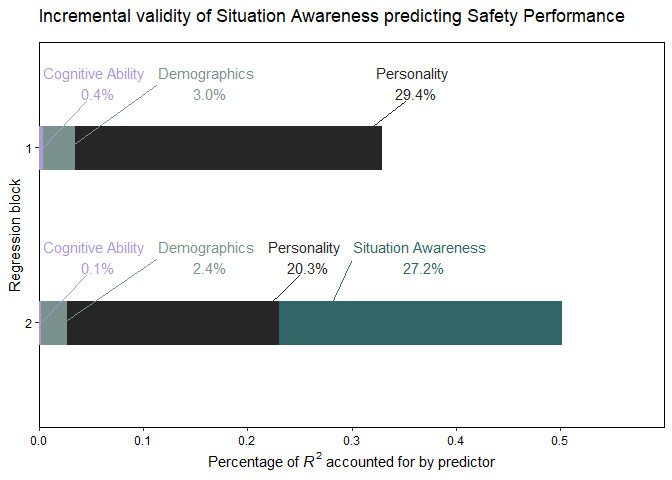
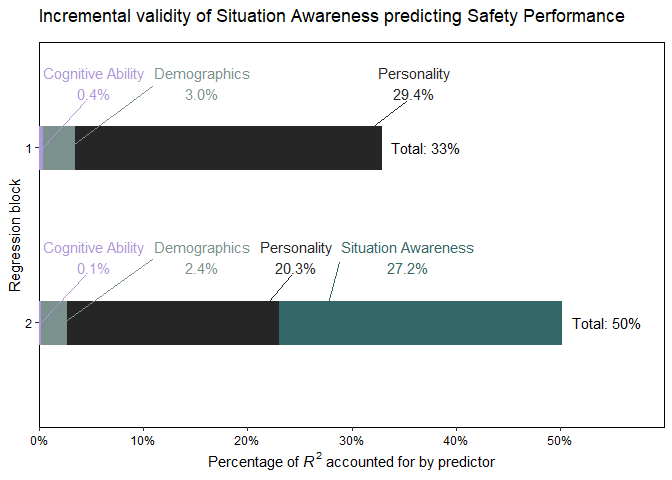
Updated with totals and x-axis label format

diff --git a/dominance.md b/dominance.md
@@ -1,13 +1,11 @@
----
-title: "Dominance"
-output: github_document
----
+Dominance
+================
 
 Visualization to demonstrate the relative importance of predictors from
-a regression model using general dominance weights.\
-[\@AJThurston](https://twitter.com/AJThurston)
+a regression model using general dominance weights.  
+[@AJThurston](https://twitter.com/AJThurston)
 
-```{r setup, warning = FALSE, message = FALSE}
+``` r
 library(summarytools)
 library(tidyverse)
 library(ggplot2)
@@ -20,42 +18,83 @@ library(domir)
 
 ## Introduction
 
-In academic contexts, explanation of a regression models typically focus on the variance accounted for by the model and the beta weights associated with each predictor. However, interpretation of beta weights is difficult for lay audiences, and multicolinearity (i.e., highly correlated predictors) can lead to misleading results (e.g., bouncing betas). Further, non-technical audiences tend to give comparably less weight to the relationships between predictors and criteria. Instead, they tend to give more weight the rank order of the most important predictors in order to prioritize direct attention or resources.
+In academic contexts, explanation of a regression models typically focus
+on the variance accounted for by the model and the beta weights
+associated with each predictor. However, interpretation of beta weights
+is difficult for lay audiences, and multicolinearity (i.e., highly
+correlated predictors) can lead to misleading results (e.g., bouncing
+betas). Further, non-technical audiences tend to give comparably less
+weight to the relationships between predictors and criteria. Instead,
+they tend to give more weight the rank order of the most important
+predictors in order to prioritize direct attention or resources.
 
-Relative importance analyses are tools for variance decomposition. They address multicolinearity of predictors, offer non-technical audiences with a ranking of the most important predictors and their relative contribution to variance explained, and offer an intuitive visual aid for describing incremental validity. There are two main relative importance analyses: relative weights analysis (Johnson, 2000; Johnson & Lebreton, 2004; Tonidandel & LeBreton, 2011) and dominance analysis (Budescu, 1993; Azen & Traxel, 2009; Luchmann, 2014). In general, relative weights analysis used to be preferred as it was less computationally intensive; however, dominance analysis is preferred as it is mathematically accurate, and should especially be preferred in high-stakes testing settings or when statistically significant differences between the relative contribution of predictors is the focus of the test.
+Relative importance analyses are tools for variance decomposition. They
+address multicolinearity of predictors, offer non-technical audiences
+with a ranking of the most important predictors and their relative
+contribution to variance explained, and offer an intuitive visual aid
+for describing incremental validity. There are two main relative
+importance analyses: relative weights analysis (Johnson, 2000; Johnson &
+Lebreton, 2004; Tonidandel & LeBreton, 2011) and dominance analysis
+(Budescu, 1993; Azen & Traxel, 2009; Luchmann, 2014). In general,
+relative weights analysis used to be preferred as it was less
+computationally intensive; however, dominance analysis is preferred as
+it is mathematically accurate, and should especially be preferred in
+high-stakes testing settings or when statistically significant
+differences between the relative contribution of predictors is the focus
+of the test.
 
 ## Data Import
 
-First, let's import the example data and quickly orient ourselves to it. There are three variables in the file:
+First, let’s import the example data and quickly orient ourselves to it.
+There are three variables in the file:
 
-1.  **id**: This is just an identifier or a unique participant ID (integer)
+1.  **id**: This is just an identifier or a unique participant ID
+    (integer)
 2.  **sex**: Participant sex (character)
 3.  **eth**: Participant ethnicity (character)
 4.  **race**: Participant race (character)
 5.  **age**: Participant age in years (integer)
 6.  **tenure**: Participant tenure in months (numeric)
-7.  **gma**: Participant cognitive ability/general mental ability score (integer)
+7.  **gma**: Participant cognitive ability/general mental ability score
+    (integer)
 8.  **o**: Participant personality, openness scale total score (integer)
-9.  **c**: Participant personality, conscientiousness scale total score (integer)
-10. **e**: Participant personality, extraversion scale total score (integer)
-11. **a**: Participant personality, agreeableness scale total score (integer)
-12. **n**: Participant personality, emotional Stability scale total score (integer)
+9.  **c**: Participant personality, conscientiousness scale total score
+    (integer)
+10. **e**: Participant personality, extraversion scale total score
+    (integer)
+11. **a**: Participant personality, agreeableness scale total score
+    (integer)
+12. **n**: Participant personality, emotional Stability scale total
+    score (integer)
 13. **sa**: Participant situation awareness test total score (integer)
 14. **sp**: Participant safety performance total score (integer)
 
-Note: all items are self-reported, but cognitive ability was measured with an ability test. Variables 2 through 13 are predictors, safety performance (sp) is the criterion.
+Note: all items are self-reported, but cognitive ability was measured
+with an ability test. Variables 2 through 13 are predictors, safety
+performance (sp) is the criterion.
 
-```{r data, message = FALSE, warning = FALSE}
+``` r
 # df <- read.csv("https://raw.githubusercontent.com/AJThurston/dominance/master/data/dominance.csv")
 df <- read.csv("data/dominance.csv")
 head(df)
 ```
 
+    ##   id    sex          eth  race age tenure gma  o  c  e  a  n sa sp
+    ## 1  1   Male Not-Hispanic White  34     36   9 33 37 35 37 39 44 20
+    ## 2  2 Female Not-Hispanic White  29    125   7 29 34 34 35 39 41 20
+    ## 3  3   Male Not-Hispanic White  37     50   3 27 36 28 27 28 28 23
+    ## 4  4   Male Not-Hispanic White  54     13  10 22 26 21 23 29 33 15
+    ## 5  5   Male Not-Hispanic White  47     16  12 39 12 23 10 12 41 17
+    ## 6  6   Male Not-Hispanic White  44     15  15 38 32 19 35 39 42 21
+
 ## Regression Analysis (Baseline)
 
-There are plenty of tools to conduct a linear regression in R. In this example, we're demonstrating incremental validity with two blocks demonstrating the incremental validity of situation awareness over demographic, cognitive, and personality predicting safety performance.
+There are plenty of tools to conduct a linear regression in R. In this
+example, we’re demonstrating incremental validity with two blocks
+demonstrating the incremental validity of situation awareness over
+demographic, cognitive, and personality predicting safety performance.
 
-```{r regression, eval = FALSE, message = FALSE, warning = FALSE}
+``` r
 mod1 <- lm(data = df, 
            formula = sp ~ sex + eth + race + age + tenure + gma + o + c + e + a + n)
 
@@ -77,11 +116,13 @@ mod2 %>%
 
 Brief description of dominance analysis here
 
-Need to give them fair warning about the 2^p-1^ thing
+Need to give them fair warning about the 2<sup>p-1</sup> thing
 
-Given the compute time, if you are following along on a lower power machine and just want to import the dominance analysis results, use the `readRDS` lines to import those data.
+Given the compute time, if you are following along on a lower power
+machine and just want to import the dominance analysis results, use the
+`readRDS` lines to import those data.
 
-```{r da, message = FALSE, warning = FALSE}
+``` r
 # dom1 <- domin(data = df,
 #               formula = sp ~ sex + eth + race + age + tenure + gma + o + c + e + a + n, 
 #               reg = lm, 
@@ -96,12 +137,14 @@ dom1 <- readRDS("data/dom1.rds")
 dom2 <- readRDS("data/dom2.rds")
 ```
 
-Now would be the time to migrate these values into a PowerPoint if you're doing a one-off.
+Now would be the time to migrate these values into a PowerPoint if
+you’re doing a one-off.
 
-## Results Formatting  
+## Results Formatting
+
 Tidy format and collapsing groups of predictors
 
-```{r results, message = FALSE, warning = FALSE}
+``` r
 res <- list(dom1$General_Dominance,dom2$General_Dominance) %>%
   do.call(bind_rows, .) %>%
   as.data.frame() %>%
@@ -128,13 +171,14 @@ res$lbl <- paste(res$var_fullname,"\n", percent(round(res$val, digits = 3)), sep
 totals <- res %>%
   aggregate(val ~ block, ., sum)
 totals$lbl <- paste("Total:", percent(round(totals$val, digits = 3)))
-
 ```
 
-Description of the data analysis here and perhaps a bit on tidy format data
+Description of the data analysis here and perhaps a bit on tidy format
+data
 
 ## Plot Parameters
-```{r params, message = FALSE, warning = FALSE}
+
+``` r
 txt.siz <- 10                              #Size for all text in the plot
 x.ll    <- 0                              #Y-axis lower limit          
 x.ul    <- .6                              #Y-axis upper limit
@@ -148,7 +192,8 @@ y.title <- "Regression block"   #Y-axis title
 ## Dominance Plot
 
 Dominance plot notes and explanation here
-```{r domplot, message=FALSE, warning=FALSE}
+
+``` r
 p <- ggplot(res)
 p <- p + geom_bar(aes(x = val, y = block, color = var, fill = var, label = lbl),
   stat = "identity", width = .25)
@@ -197,6 +242,7 @@ p <- p + theme(legend.position = "none",
                axis.text.y = element_text(color = 'black'),
                axis.text.x = element_text(color = 'black'))
 ```
+
 ![](https://raw.githubusercontent.com/AJThurston/dominance/master/img/dominance.png)
 
 ## Export
@@ -204,7 +250,7 @@ p <- p + theme(legend.position = "none",
 These are some options for exporting your expectancy chart and the data
 for use in other software programs.
 
-```{r export, message=FALSE, warning=FALSE}
+``` r
 ggsave("img/dominance.png",
        plot = p,
        scale = 1,
@@ -219,11 +265,22 @@ write.csv(res, "data/da_results.csv")
 
 ## Limitations
 
-> First, DA cannot account for sampling and measurement errors, as is true of other analyses (Braun et al., 2019; Tonidandel & LeBreton, 2011). Second, although DA was invented to deal with correlations among PVs, it cannot rectify multicollinearity when multicollinearity is caused by two or more variables measuring the same construct (i.e., construct redundancy; Stadler et al., 2017). Third, DA is not a replacement for multiple regression analysis for selecting the best set of PVs for the regression formula. That is, DA is an indispensable supplement to multiple regression analysis for determining predictor importance, but not the other way around. (Mizumoto, 2022)
+> First, DA cannot account for sampling and measurement errors, as is
+> true of other analyses (Braun et al., 2019; Tonidandel & LeBreton,
+> 2011). Second, although DA was invented to deal with correlations
+> among PVs, it cannot rectify multicollinearity when multicollinearity
+> is caused by two or more variables measuring the same construct (i.e.,
+> construct redundancy; Stadler et al., 2017). Third, DA is not a
+> replacement for multiple regression analysis for selecting the best
+> set of PVs for the regression formula. That is, DA is an indispensable
+> supplement to multiple regression analysis for determining predictor
+> importance, but not the other way around. (Mizumoto, 2022)
 
 ## References
 
-Azen, R., & Traxel, N. (2009). Using Dominance Analysis to Determine Predictor Importance in Logistic Regression. Journal of Educational and Behavioral Statistics, 34(3), 319--347.
+Azen, R., & Traxel, N. (2009). Using Dominance Analysis to Determine
+Predictor Importance in Logistic Regression. Journal of Educational and
+Behavioral Statistics, 34(3), 319–347.
 <https://doi.org/10.3102/1076998609332754>
 
 Budescu, D. V. (1993). Dominance analysis: A new approach to the problem
@@ -244,9 +301,8 @@ Organizational Research Methods, 17(4), 452-471.
 <https://doi.org/10.1177/1094428114544509>
 
 Mizumoto, A. (2023). Calculating the relative importance of multiple
-regression predictor variables using
-dominance analysis and random forests. *Language Learning*, *73*(1),
-161-196.
+regression predictor variables using dominance analysis and random
+forests. *Language Learning*, *73*(1), 161-196.
 
 Tonidandel, S., & LeBreton, J. M. (2011). Relative importance analysis:
 A useful supplement to regression analysis. Journal of Business and
